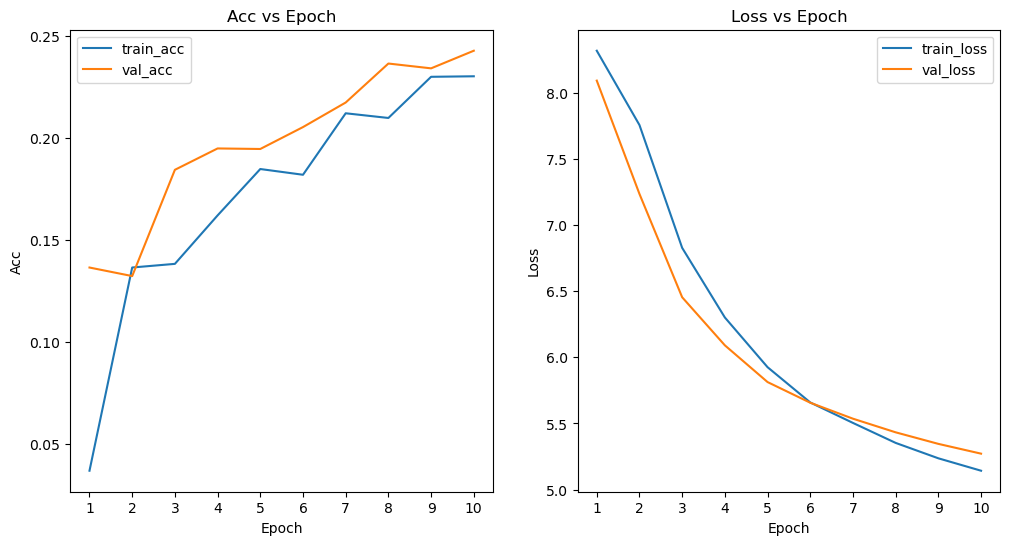
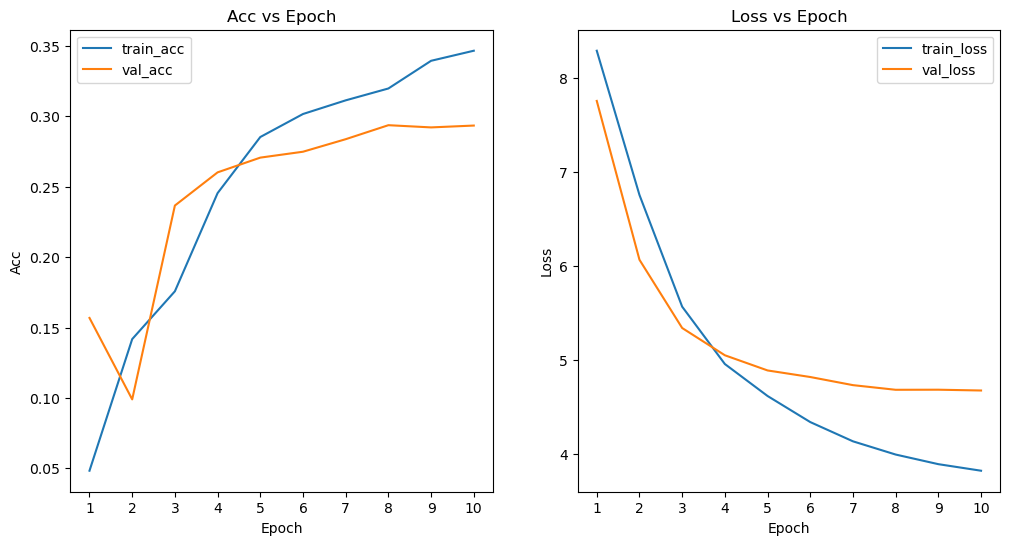
updated hyperparams

diff --git a/train.py b/train.py
@@ -84,12 +84,15 @@ def train_epoch(train_loader,device,encoder,decoder,enc_optimizer,dec_optimizer,
 
         # Calculate loss
         loss = criterion(batch_scores, batch_targets)
-
+        if i%2000==0:
+            print(loss)
         # Backward and optimize
         loss.backward()
         enc_optimizer.step()
         dec_optimizer.step()  
-        
+        enc_scheduler.step()
+        dec_scheduler.step()
+
         epoch_loss += loss.item()
         epoch_correct += correct
         epoch_words += words 
@@ -190,17 +193,19 @@ def main(args):
     # Build models
     image_dim = 2048
     embed_size = 300
-    hidden_size = 300
+    hidden_size = 512
     vocab_size = len(vocab)
 
     encoder = CNNfull().to(device)
     decoder = DecoderRNN(image_dim,embed_size,hidden_size,vocab_size).to(device)
 
     # Loss and optimizer
-    enc_optimizer_lr = 1e-4
-    dec_optimizer_lr = 1e-2
-    enc_optimizer = optim.SGD(encoder.parameters(),lr=enc_optimizer_lr,momentum=0.9)
-    dec_optimizer = optim.SGD(decoder.parameters(),lr=dec_optimizer_lr,momentum=0.9)
+    #lr is maximum chosen from batches
+    enc_optimizer_lr = 2e-4
+    dec_optimizer_lr = 0.002
+    # weight decay values copied from imagenet and seq2seq models
+    enc_optimizer = optim.SGD(encoder.parameters(),lr=enc_optimizer_lr,momentum=0.9,weight_decay=5e-4)
+    dec_optimizer = optim.SGD(decoder.parameters(),lr=dec_optimizer_lr,momentum=0.9,weight_decay=1e-6)
     criterion = nn.CrossEntropyLoss()
 
     # Train the models
@@ -208,6 +213,9 @@ def main(args):
     view_train_captions = False # View train captions
     view_val_captions = False # View val captions
 
+    enc_scheduler = optim.lr_scheduler.OneCycleLR(enc_optimizer,max_lr=enc_optimizer_lr*50,steps_per_epoch=len(train_loader),epochs=num_epochs)
+    dec_scheduler = optim.lr_scheduler.OneCycleLR(dec_optimizer,max_lr=dec_optimizer_lr*50,steps_per_epoch=len(train_loader),epochs=num_epochs)
+    
     for epoch in range(num_epochs):
         train_loss = 0    
         val_loss = 0
@@ -216,7 +224,7 @@ def main(args):
         val_correct = 0
         val_words = 0
 
-        train_loss,train_correct,train_words = train_epoch(train_loader,device,encoder,decoder,enc_optimizer,dec_optimizer,criterion,vocab,view_train_captions=view_train_captions)
+        train_loss,train_correct,train_words = train_epoch(train_loader,device,encoder,decoder,enc_optimizer,dec_optimizer,criterion,vocab,enc_scheduler=enc_scheduler,dec_scheduler=dec_scheduler,view_train_captions=view_train_captions)
         
         val_loss,val_correct,val_words = val_epoch(val_loader,device,encoder,decoder,criterion,vocab,epoch,view_val_captions=view_val_captions)
 

diff --git a/model.py b/model.py
@@ -15,12 +15,23 @@ class BahdanauAttention(nn.Module):
         """
         self.w1 = nn.Linear(image_dim,image_dim)
         self.w2 = nn.Linear(hidden_size,image_dim)
+        self.dropouts = nn.ModuleList([nn.Dropout(0.5) for _ in range(5)])
         self.v = nn.Linear(image_dim,1)
 
     def forward(self,features,hidden):
         
         hidden_time = hidden.unsqueeze(1)
-        attention_score = torch.tanh(self.w1(features)+self.w2(hidden_time))
+        
+        scoring = self.w1(features)+self.w2(hidden_time)
+        for i,dropout in enumerate(self.dropouts):
+            if i == 0:
+                out = dropout(scoring)
+            else:
+                out += dropout(scoring)
+
+        out /= len(self.dropouts)
+
+        attention_score = torch.tanh(out)
         attention_weights = F.softmax(self.v(attention_score),dim=1)
         context_vector = features * attention_weights
         context_vector = torch.sum(context_vector,dim=1)
@@ -92,7 +103,7 @@ class DecoderRNN(nn.Module):
         
         self.lstm = nn.LSTMCell(embed_size+image_dim, hidden_size)
         self.fc = nn.Linear(hidden_size, vocab_size)
-        self.dropout = nn.Dropout(0.5)
+        self.dropouts = nn.ModuleList([nn.Dropout(0.5) for _ in range(5)])
         self.attention = BahdanauAttention(image_dim,hidden_size)
     
     def forward(self,images,captions,lengths):
@@ -117,8 +128,16 @@ class DecoderRNN(nn.Module):
                 torch.cat([embeddings[:batch_size_t, t, :], attention_weighted_encoding], dim=1),
                 (h[:batch_size_t], c[:batch_size_t]))
             
+            #multisample dropout for faster convergence
+            for i,dropout in enumerate(self.dropouts):
+                if i == 0:
+                    out = dropout(h)
+                else:
+                    out += dropout(h)
 
-            preds = self.fc(self.dropout(h))  # (batch_size_t, vocab_size)
+            out /= len(self.dropouts)
+
+            preds = self.fc(out)  # (batch_size_t, vocab_size)
             predictions[:batch_size_t, t, :] = preds
             alphas[:batch_size_t, t, :] = alpha.squeeze(2)
         #alphas are the attention weights
